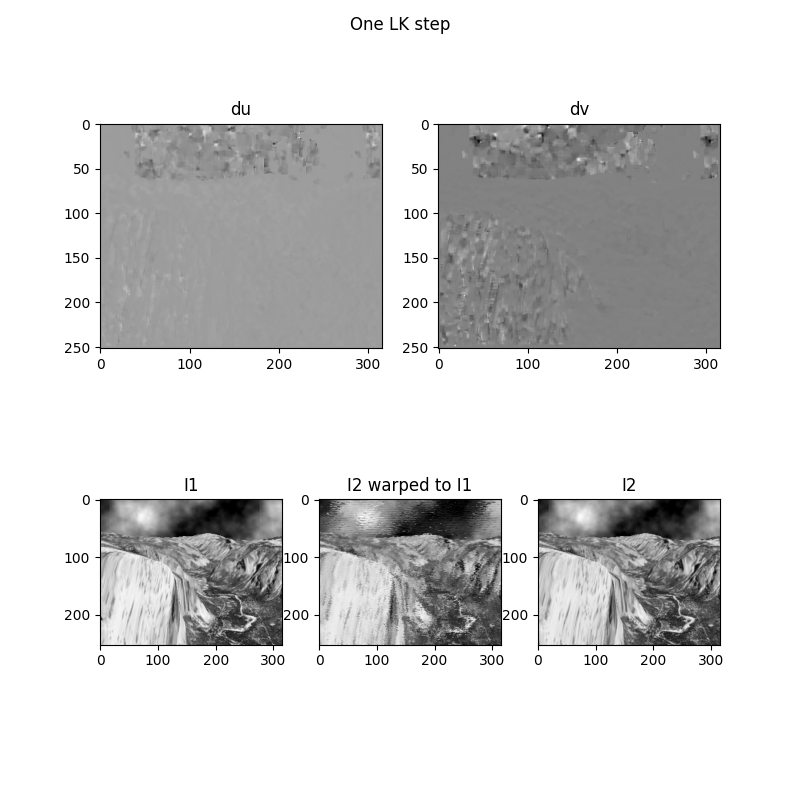
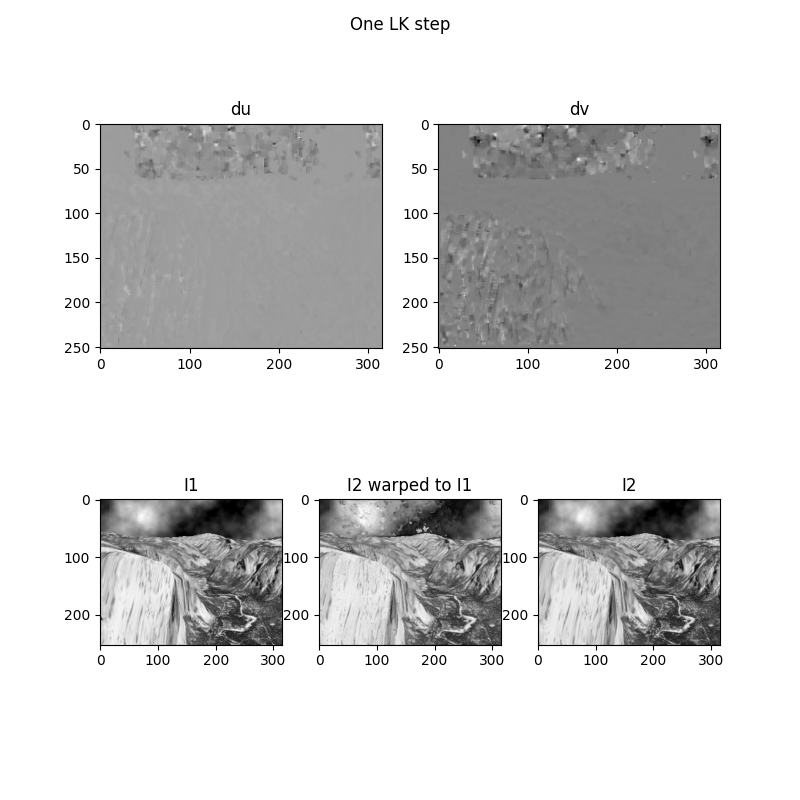
Implement full_lk

Changed region(s): [[0.4062, 0.625, 0.625, 0.8125]]

diff --git a/lucas_kanade.py b/lucas_kanade.py
@@ -175,8 +175,8 @@ def warp_image(image: np.ndarray, u: np.ndarray, v: np.ndarray) -> np.ndarray:
     # Step1:
     U_FACTOR = w / u.shape[1]
     V_FACTOR = h / v.shape[0]
-    u = cv2.resize(u, (h, w), interpolation=cv2.INTER_LINEAR) * U_FACTOR
-    v = cv2.resize(v, (h, w), interpolation=cv2.INTER_LINEAR) * V_FACTOR
+    u = cv2.resize(u, (w, h), interpolation=cv2.INTER_LINEAR) * U_FACTOR
+    v = cv2.resize(v, (w, h), interpolation=cv2.INTER_LINEAR) * V_FACTOR
     # Step 2:
     # (2.1)
     x, y = np.meshgrid(np.arange(w), np.arange(h))
@@ -186,7 +186,7 @@ def warp_image(image: np.ndarray, u: np.ndarray, v: np.ndarray) -> np.ndarray:
     points_new = np.column_stack((x_new, y_new))
     # (2.3) + (2.2)
     image_warp = griddata(points=points, values=image.flatten(),
-                      xi=points_new, method='linear', fill_value=np.nan)
+                      xi=points_new, method='cubic', fill_value=np.nan)
     # (2.4) Handle with holes
     image_warp[np.isnan(image_warp)] = image.flatten()[np.isnan(image_warp)]
     # Reshape to the original shape
@@ -235,6 +235,7 @@ def lucas_kanade_optical_flow(I1: np.ndarray,
     """INSERT YOUR CODE HERE.
         Replace image_warp with something else.
         """
+    DOWN_FACTOR = 2
     h_factor = int(np.ceil(I1.shape[0] / (2 ** (num_levels - 1 + 1))))
     w_factor = int(np.ceil(I1.shape[1] / (2 ** (num_levels - 1 + 1))))
     IMAGE_SIZE = (w_factor * (2 ** (num_levels - 1 + 1)),
@@ -249,10 +250,18 @@ def lucas_kanade_optical_flow(I1: np.ndarray,
     # start from u and v in the size of smallest image
     u = np.zeros(pyarmid_I2[-1].shape)
     v = np.zeros(pyarmid_I2[-1].shape)
-    """INSERT YOUR CODE HERE.
-       Replace u and v with their true value."""
-    u = np.zeros(I1.shape)
-    v = np.zeros(I1.shape)
+    """INSERT YOUR CODE HERE.Replace u and v with their true value."""
+    for level in range(num_levels, -1, -1):
+        I2_warp = warp_image(pyarmid_I2[level], u, v)
+        for iter in range(max_iter):
+            du, dv = lucas_kanade_step(I1=pyramid_I1[level], I2=I2_warp, window_size=window_size)
+            u += du
+            v += dv
+            I2_warp = warp_image(pyarmid_I2[level], u, v)
+        if level > 0:
+            h_scale, w_scale = pyarmid_I2[level - 1].shape
+            u = cv2.resize(u, (w_scale, h_scale)) * DOWN_FACTOR
+            v = cv2.resize(v, (w_scale, h_scale)) * DOWN_FACTOR
     return u, v
 
 

diff --git a/main_river.py b/main_river.py
@@ -16,7 +16,7 @@ ID2 = '211670849'
 
 # Choose parameters
 WINDOW_SIZE_RIVER = 5  # Add your value here!
-MAX_ITER_RIVER = 10  # Add your value here!
+MAX_ITER_RIVER = 8  # Add your value here!
 NUM_LEVELS_RIVER = 5
 
 # Output dir and statistics file preparations:
